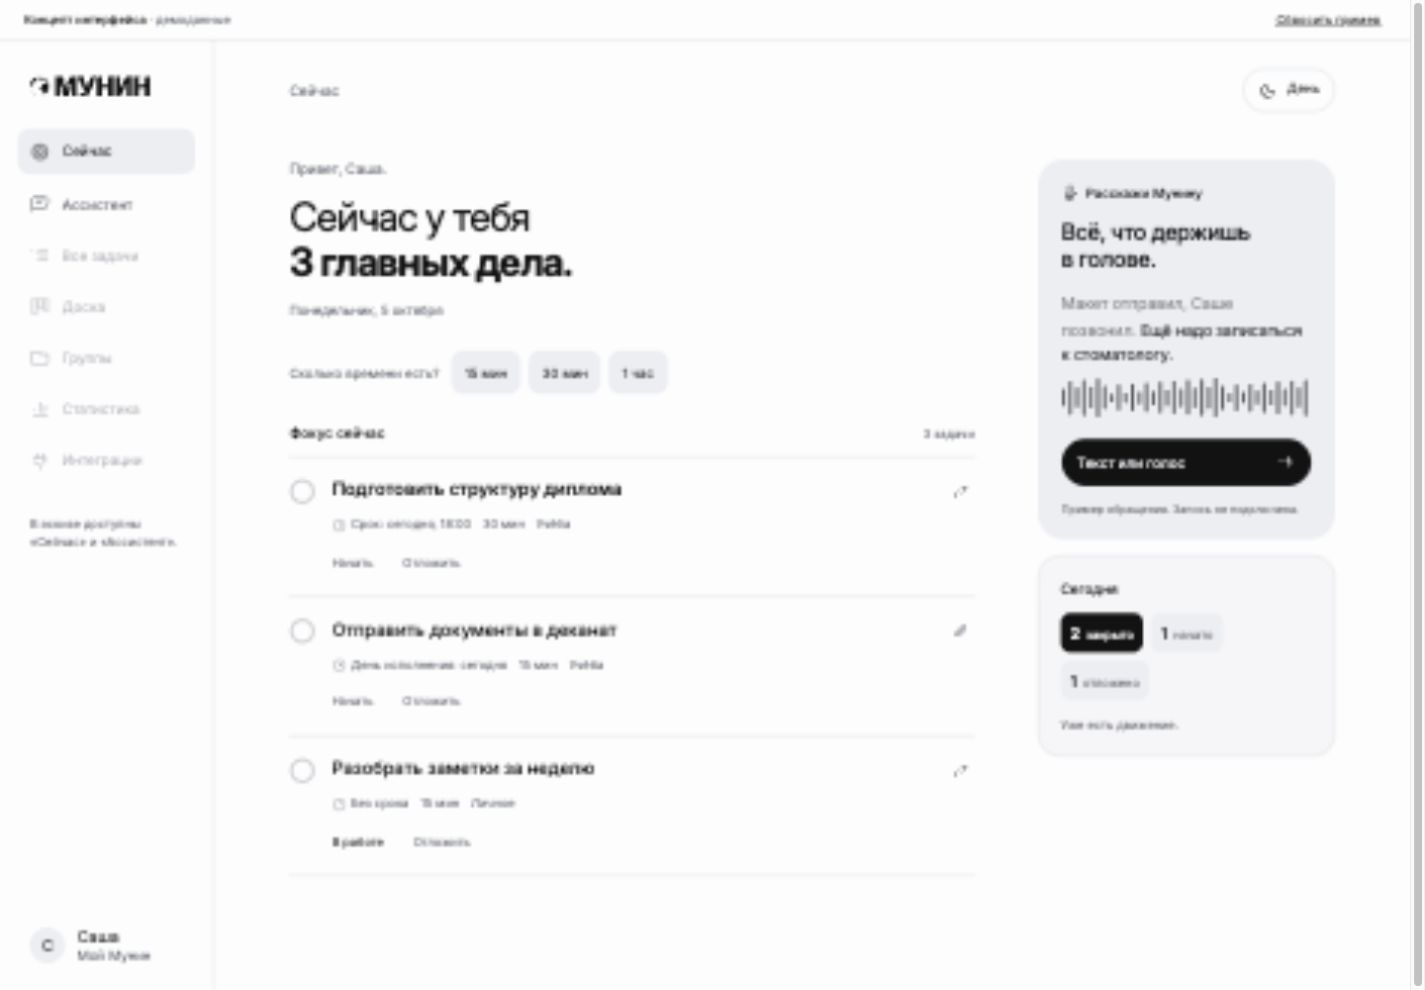
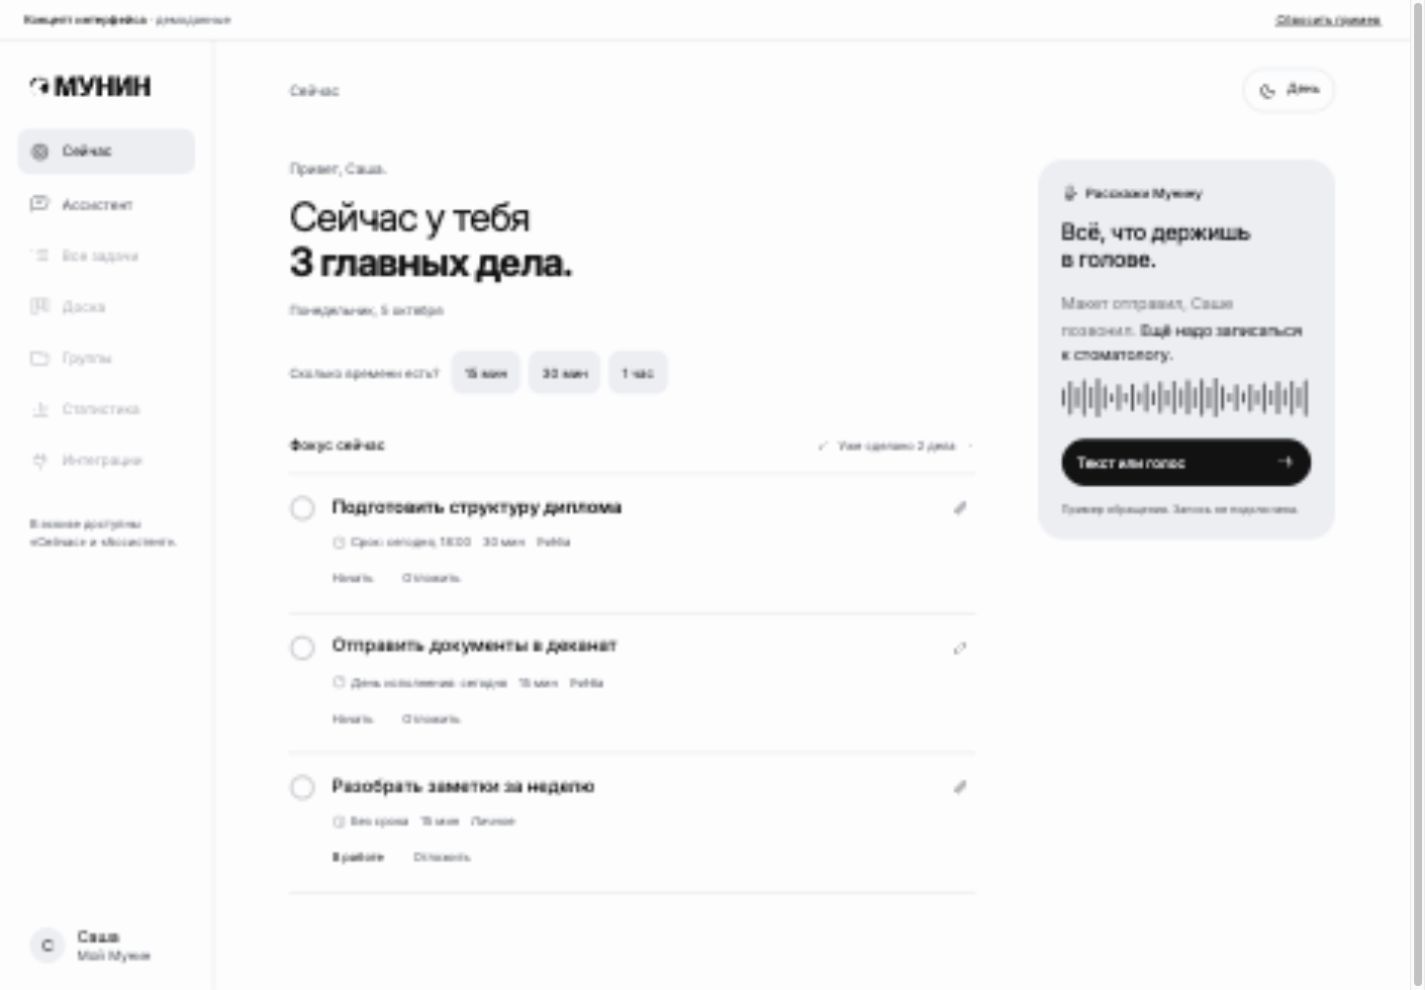
встроить продвижение в список задач

diff --git a/docs/design/concept.html b/docs/design/concept.html
@@ -69,7 +69,7 @@
     .budget-label { font-size: 13px; color: var(--muted); margin-right: 4px; }
     .chip { border: 0; background: var(--raised); min-height: 44px; padding: 8px 14px; border-radius: 12px; font-size: 13px; }
     .chip[aria-pressed="true"] { background: var(--text); color: var(--background); }
-    .section-head { display: flex; align-items: center; justify-content: space-between; padding-bottom: 12px; border-bottom: 1px solid var(--line); }
+    .section-head { display: flex; flex-wrap: wrap; gap: 0 12px; align-items: center; justify-content: space-between; padding-bottom: 6px; border-bottom: 1px solid var(--line); }
     .section-head h2 { font-size: 14px; font-weight: 500; }
     .section-head span { font-size: 12px; color: var(--muted); }
     .task { display: flex; align-items: flex-start; gap: 14px; border-bottom: 1px solid var(--line); padding: 20px 0 12px; }
@@ -108,15 +108,18 @@
     .wave i { display: block; width: 3px; flex-shrink: 0; border-radius: 3px; background: currentColor; opacity: .7; }
     .capture button { width: 100%; border: 0; border-radius: 100px; background: var(--capture-ink); color: var(--capture); padding: 12px 16px; min-height: 48px; font-size: 14px; display: flex; align-items: center; justify-content: space-between; gap: 8px; margin-top: 20px; }
     .capture small { display: block; font-size: 11px; margin-top: 14px; opacity: .7; }
-    .progress { padding: 22px; background: var(--surface); border: 1px solid var(--line); border-radius: 22px; }
-    .progress h2 { font-size: 14px; font-weight: 500; }
-    .progress-stats { display: flex; gap: 8px; flex-wrap: wrap; margin-top: 14px; }
-    .progress-stats div { display: inline-flex; align-items: baseline; gap: 6px; padding: 8px 10px; border-radius: 10px; background: var(--raised); }
-    .progress-stats strong { font-size: 16px; font-weight: 600; }
-    .progress-stats span { font-size: 12px; color: var(--muted); }
-    .progress-stats div:first-child { background: var(--text); color: var(--background); }
-    .progress-stats div:first-child span { color: inherit; }
-    .progress p { font-size: 12px; color: var(--muted); margin-top: 16px; }
+    .day-progress { display: inline-flex; align-items: center; gap: 7px; min-height: 44px; padding: 8px; margin-right: -8px; background: none; border: 0; border-radius: 10px; font-size: 12px; color: var(--muted); }
+    .day-progress:hover { background: var(--raised); color: var(--text); }
+    .day-progress .icon { width: 16px; height: 16px; }
+    .day-progress .chevron { width: 12px; height: 12px; }
+    .day-progress[aria-expanded="true"] .chevron { transform: rotate(180deg); }
+    .day-progress span { font-size: inherit; }
+    .day-detail { padding: 18px 0 20px; border-bottom: 1px solid var(--line); }
+    .day-detail h3 { font-size: 14px; font-weight: 500; margin-bottom: 12px; }
+    .day-detail ul { list-style: none; padding: 0; margin: 0; display: grid; gap: 9px; }
+    .day-detail li { display: flex; align-items: flex-start; gap: 9px; font-size: 13px; overflow-wrap: anywhere; }
+    .day-detail li .icon { width: 16px; height: 16px; margin-top: 2px; color: var(--muted); }
+    .day-detail p { margin-top: 14px; font-size: 12px; color: var(--muted); }
     .bottom-nav { display: none; }
     .empty { padding: 24px 0; }
     .empty h3 { font-size: 22px; margin-bottom: 8px; }
@@ -150,7 +153,7 @@
       .workspace { padding: 22px 24px calc(104px + var(--safe-bottom)); }
       .top { margin-bottom: 32px; } .content { max-width: 680px; }
       .columns { grid-template-columns: minmax(0, 1fr); gap: 24px; }
-      .aside { grid-template-columns: repeat(2, minmax(0, 1fr)); align-items: start; }
+      .aside { align-items: start; }
       .bottom-nav { display: grid; grid-template-columns: repeat(6, minmax(0, 1fr)); position: fixed; bottom: 0; left: 0; right: 0; padding: 8px 4px calc(8px + var(--safe-bottom)); background: var(--background); border-top: 1px solid var(--line); z-index: 5; }
       .bottom-nav button { min-width: 0; min-height: 52px; display: flex; flex-direction: column; align-items: center; justify-content: center; gap: 4px; background: none; border: 0; color: var(--muted); border-radius: 12px; font-size: 10px; }
       .bottom-nav button[aria-current="page"] { background: var(--selected); color: var(--text); }
@@ -169,12 +172,9 @@
       .task-check { margin-left: -8px; margin-right: -6px; }
       .task-controls { gap: 4px 10px; margin-top: 2px; }
       .aside { display: flex; flex-direction: column; gap: 14px; }
-      .capture, .progress { width: 100%; }
+      .capture { width: 100%; }
       .capture { padding: 22px; border-radius: 24px; }
       .capture .transcript { font-size: 15px; }
-      .progress { padding: 18px 20px; order: -1; }
-      .progress-stats { gap: 6px; } .progress-stats div { padding: 8px; }
-      .progress-stats strong { font-size: 15px; } .progress-stats span { font-size: 11px; }
       .user-message { max-width: 94%; padding: 18px; } .proposal { padding: 20px; }
       .conversation-intro { font-size: 14px; }
     }
@@ -197,6 +197,7 @@
     <symbol id="edit" viewBox="0 0 24 24"><path d="M4 16l12-12 4 4L8 20H4zM14 6l4 4"/></symbol>
     <symbol id="bolt" viewBox="0 0 24 24"><path d="M13 2L4 14h7l-1 8 10-13h-7z"/></symbol>
     <symbol id="check" viewBox="0 0 24 24"><path d="M5 12l4 4L19 6"/></symbol>
+    <symbol id="chevron" viewBox="0 0 24 24"><path d="M6 9l6 6 6-6"/></symbol>
     <symbol id="plug" viewBox="0 0 24 24"><path d="M8 3v5M16 3v5M6 8h12v3a6 6 0 01-12 0zM12 17v5"/></symbol>
   </svg>
   <div class="studybar"><p><strong>Концепт интерфейса</strong> · демоданные</p><button id="reset">Сбросить пример</button></div>
@@ -266,13 +267,13 @@
           <div class="focus-column">
             <div class="greeting"><p class="lead-name">Привет, Саша.</p><h1 id="focus-title">Сейчас у тебя<br><strong id="focus-summary">3 главных дела.</strong></h1><p class="date">Понедельник, 5 октября</p></div>
             <div class="budget" role="group" aria-label="Сколько времени есть?"><span class="budget-label">Сколько времени есть?</span><button class="chip" data-minutes="15" aria-pressed="false">15 мин</button><button class="chip" data-minutes="30" aria-pressed="false">30 мин</button><button class="chip" data-minutes="60" aria-pressed="false">1 час</button></div>
-            <div class="section-head"><h2>Фокус сейчас</h2><span id="focus-count">3 задачи</span></div>
+            <div class="section-head"><h2>Фокус сейчас</h2><button class="day-progress" id="day-progress" aria-expanded="false" aria-controls="day-detail"><svg class="icon" aria-hidden="true"><use href="#check"/></svg><span id="day-progress-note" aria-live="polite">Уже сделано 2 дела</span><svg class="icon chevron" aria-hidden="true"><use href="#chevron"/></svg></button></div>
+            <section class="day-detail" id="day-detail" aria-labelledby="day-detail-title" hidden><h3 id="day-detail-title">Что уже получилось сегодня</h3><ul id="completed-items"></ul><p id="day-extra"></p></section>
             <div id="tasks"></div>
             <div id="empty" class="empty" hidden><h3>Можно выдохнуть.</h3><p>В этой подборке больше нет задач. Можно выбрать другой бюджет времени или рассказать о новых делах.</p></div>
           </div>
-          <aside class="aside" aria-label="Ввод и продвижение">
+          <aside class="aside" aria-label="Ввод">
             <div class="capture"><div class="module-heading"><svg class="icon" aria-hidden="true"><use href="#mic"/></svg>Расскажи Мунину</div><h2>Всё, что держишь<br>в голове.</h2><p class="transcript"><span class="faded">Макет отправил, Саше позвонил.</span> Ещё надо записаться к стоматологу.</p><div class="wave" aria-hidden="true"></div><button data-page="assistant">Текст или голос<svg class="icon" aria-hidden="true"><use href="#arrow"/></svg></button><small>Пример обращения. Запись не подключена.</small></div>
-            <div class="progress"><h2>Сегодня</h2><div class="progress-stats"><div><strong id="done-count">2</strong><span>закрыто</span></div><div><strong id="started-count">1</strong><span>начато</span></div><div><strong id="moved-count">1</strong><span>отложено</span></div></div><p>Уже есть движение.</p></div>
           </aside>
         </div>
       </section>
@@ -304,11 +305,11 @@
       { id: 2, title: 'Отправить документы в деканат', group: 'Учёба', minutes: 15, meta: 'День исполнения: сегодня', status: 'todo' },
       { id: 3, title: 'Разобрать заметки за неделю', group: 'Личное', minutes: 15, meta: 'Без срока', status: 'started' }
     ];
-    let tasks = [], budget = null, counts = {}, editingId = null, toastTimer;
+    let tasks = [], budget = null, counts = {}, completedToday = [], editingId = null, toastTimer;
     const tasksElement = document.getElementById('tasks');
     const icon = (name) => `<svg class="icon" aria-hidden="true"><use href="#${name}"/></svg>`;
     const escapeHtml = (value) => value.replace(/[&<>"']/g, (char) => ({'&':'&amp;', '<':'&lt;', '>':'&gt;', '"':'&quot;', "'":'&#39;'}[char]));
-    const taskWord = (number) => number === 1 ? 'задача' : number >= 2 && number <= 4 ? 'задачи' : 'задач';
+    const doneWord = (number) => number % 10 === 1 && number % 100 !== 11 ? 'дело' : number % 10 >= 2 && number % 10 <= 4 && (number % 100 < 12 || number % 100 > 14) ? 'дела' : 'дел';
     function render() {
       const visible = tasks.filter((task) => task.status !== 'done' && task.status !== 'moved' && (!budget || task.minutes <= budget));
       tasksElement.innerHTML = visible.map((task) => `<article class="task" aria-labelledby="title-${task.id}">
@@ -318,9 +319,11 @@
         <div class="task-controls">${task.status === 'todo' ? `<button class="text-action" data-action="start" data-id="${task.id}">Начать</button>` : '<span class="task-status">В работе</span>'}<button class="text-action" data-action="snooze" data-id="${task.id}">Отложить</button></div></div>
       </article>`).join('');
       document.getElementById('focus-summary').textContent = visible.length === 1 ? '1 главное дело.' : visible.length === 0 ? 'пауза.' : `${visible.length} главных дела.`;
-      document.getElementById('focus-count').textContent = `${visible.length} ${taskWord(visible.length)}`;
       document.getElementById('empty').hidden = visible.length !== 0;
-      for (const key of ['done', 'started', 'moved']) document.getElementById(`${key}-count`).textContent = counts[key];
+      document.getElementById('day-progress-note').textContent = `Уже сделано ${counts.done} ${doneWord(counts.done)}`;
+      document.getElementById('day-progress').setAttribute('aria-label', `Сегодня уже сделано ${counts.done} ${doneWord(counts.done)}. Показать итоги дня`);
+      document.getElementById('completed-items').innerHTML = completedToday.map((title) => `<li>${icon('check')}<span>${escapeHtml(title)}</span></li>`).join('');
+      document.getElementById('day-extra').textContent = `Ещё: начато ${counts.started}, перенесено ${counts.moved}.`;
     }
     function notice(text) {
       clearTimeout(toastTimer);
@@ -345,13 +348,18 @@
       if (button.dataset.action === 'edit') {
         editingId = task.id; document.getElementById('task-title').value = task.title; document.getElementById('edit-dialog').showModal(); return;
       }
-      if (button.dataset.action === 'done') { task.status = 'done'; counts.done++; notice('Задача закрыта в примере'); }
+      if (button.dataset.action === 'done') { task.status = 'done'; counts.done++; completedToday.push(task.title); notice('Ещё одно дело готово.'); }
       if (button.dataset.action === 'start') { task.status = 'started'; counts.started++; notice('Задача начата в примере'); }
       if (button.dataset.action === 'snooze') { task.status = 'moved'; counts.moved++; notice('В примере: отложено на завтра'); }
       render();
       const nextControl = tasksElement.querySelector('[data-action="done"]') || document.querySelector('[data-minutes]'); nextControl.focus();
     });
     document.getElementById('cancel-edit').addEventListener('click', () => document.getElementById('edit-dialog').close());
+    document.getElementById('day-progress').addEventListener('click', () => {
+      const trigger = document.getElementById('day-progress');
+      const expanded = trigger.getAttribute('aria-expanded') !== 'true';
+      trigger.setAttribute('aria-expanded', String(expanded)); document.getElementById('day-detail').hidden = !expanded;
+    });
     document.getElementById('edit-form').addEventListener('submit', (event) => {
       event.preventDefault(); const value = document.getElementById('task-title').value.trim(); if (!value) return;
       tasks.find((task) => task.id === editingId).title = value; render(); document.getElementById('edit-dialog').close();
@@ -373,6 +381,8 @@
     document.getElementById('reject').addEventListener('click', () => proposalResult('Предложение отклонено. Ничего не изменено.'));
     function reset() {
       tasks = initialTasks.map((task) => ({...task})); budget = null; counts = {done: 2, started: 1, moved: 1};
+      completedToday = ['Отправить макет', 'Позвонить Саше'];
+      document.getElementById('day-progress').setAttribute('aria-expanded', 'false'); document.getElementById('day-detail').hidden = true;
       document.querySelectorAll('[data-minutes]').forEach((button) => button.setAttribute('aria-pressed', 'false'));
       proposalInputs.forEach((input) => { input.checked = true; }); updateApply();
       document.getElementById('proposal').hidden = false; document.getElementById('proposal-result').hidden = true;
